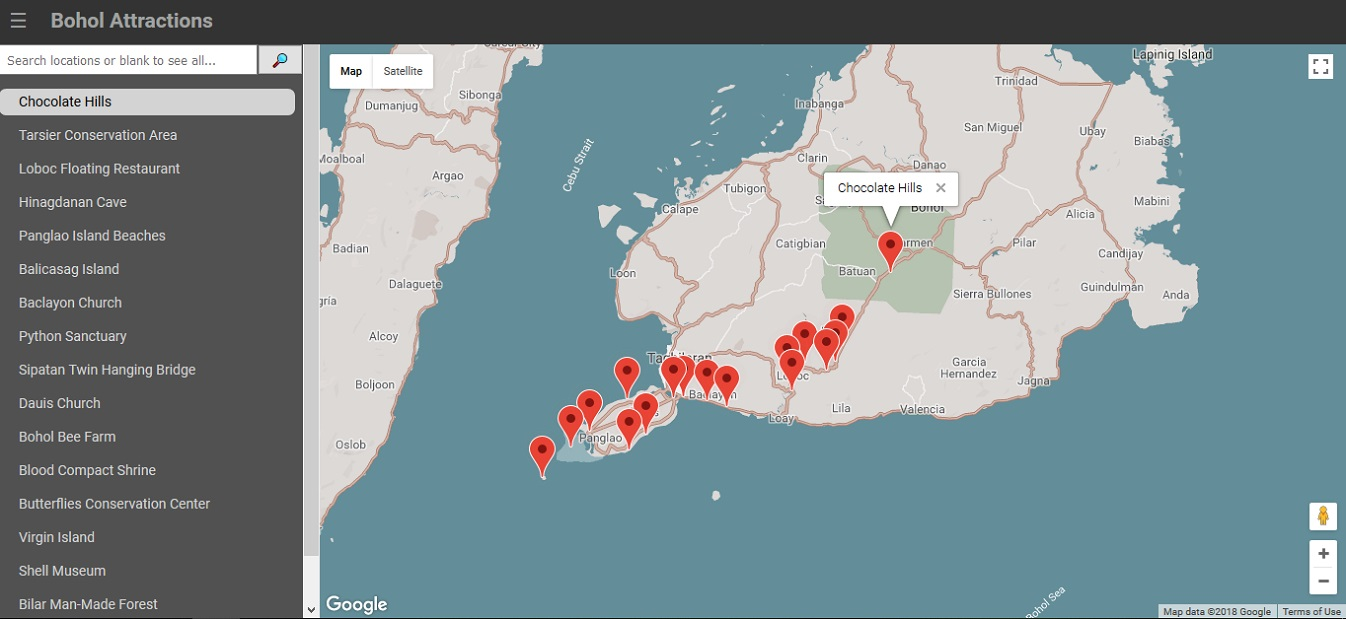
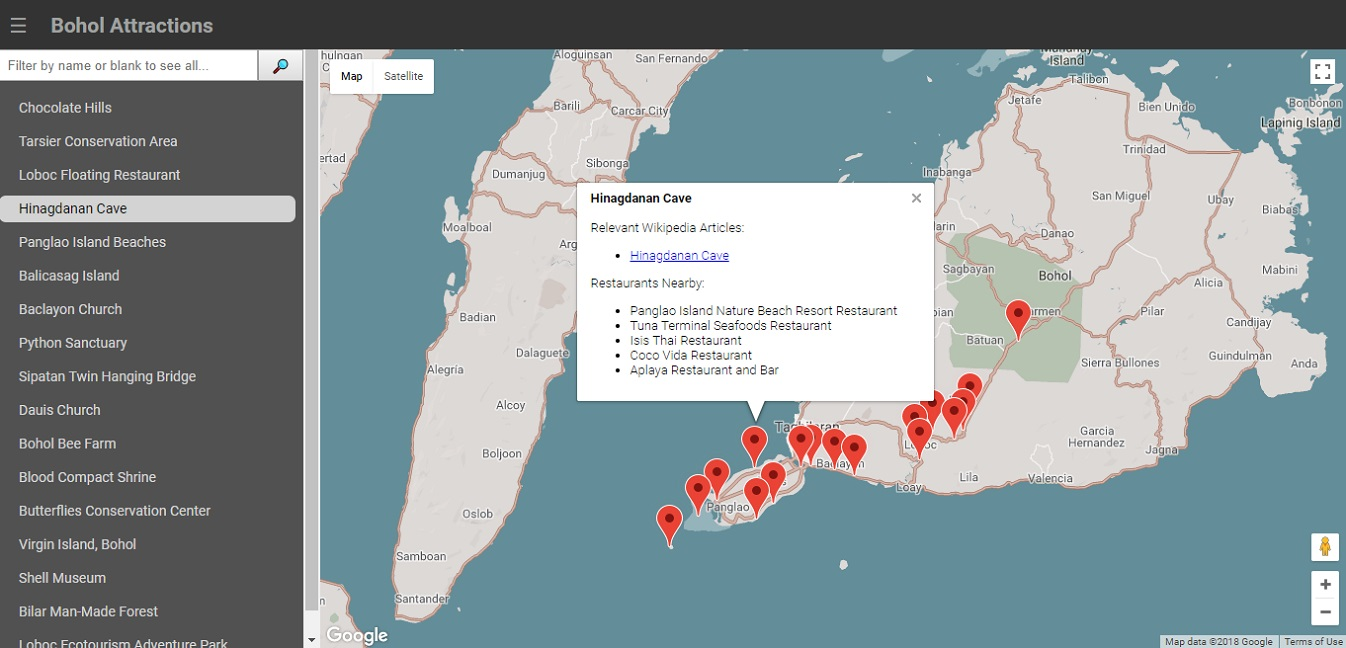
Updated neighborhood map project

diff --git a/index.html b/index.html
@@ -120,16 +120,19 @@
       <div class="modal__body">
         <p class="modal__text">
           The neighborhood map project is a single page application featuring noteworthy
-          spots marked on the map. Third-party data are made available about those locations
-          as well.
-          <br /><br />Github link (Coding for some features ongoing):
+          spots marked on the map. Third-party data on relevant articles and restaurants nearby
+          are made available about those locations through API calls made to Wikipedia and Foursquare.
+          <br /><br />Github link:
           <a class="modal__link" href="https://github.com/czar3985/neighborhood-map">here</a>
         </p>
         <ul class="modal__skills">
           <li>Google Maps APIs</li>
-          <li>Wikipedia API (TBD)</li>
+          <li>Wikipedia API</li>
+          <li>Foursquare API</li>
           <li>Knockout.js</li>
+          <li>MVVM Framework</li>
           <li>JavaScript</li>
+          <li>AJAX</li>
           <li>HTML</li>
           <li>CSS</li>
         </ul>
